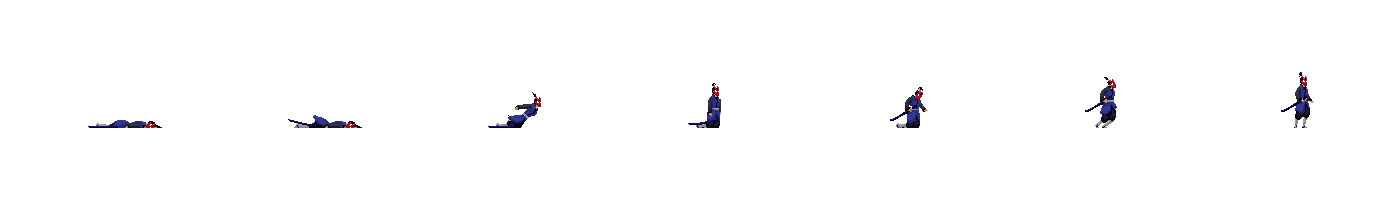
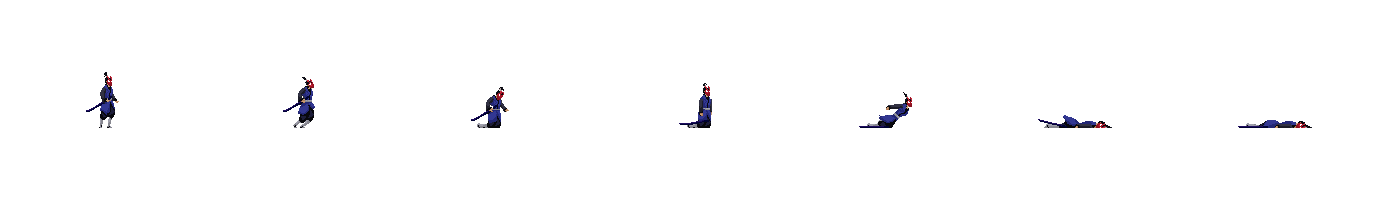
fixed death animation and mirror of players

diff --git a/js/classes.js b/js/classes.js
@@ -22,7 +22,7 @@ class Sprite {
                 0,
                 this.image.width / this.framesMax,
                 this.image.height,
-                -this.position.x - this.image.width / (this.framesMax - 2),
+                -this.position.x - this.image.width / (this.framesMax) * this.scale,
                 this.position.y,
                 (this.image.width / this.framesMax) * this.scale,
                 this.image.height * this.scale
@@ -91,8 +91,6 @@ class Fighter extends Sprite {
             sprites[sprite].image = new Image();
             sprites[sprite].image.src = this.sprites[sprite].imageSrc;
         }
-
-        console.log(this.sprites);
     }
 
     update() {
@@ -128,17 +126,8 @@ class Fighter extends Sprite {
         }, 1000);
     }
 
-    isGrounded() {
-        let posOffset = 450;
-        if (this.position.y + this.height >= canvas.height - posOffset) {
-            return true;
-        } else {
-            return false;
-        }
-    }
-
     jump() {
-        if (this.isGrounded() && !this.isDead) {
+        if (this.position.y + this.height >= canvas.height - 450 && !this.isDead) {
             this.velocity.y = -20;
         }
     }

diff --git a/index.js b/index.js
@@ -68,11 +68,16 @@ const player = new Fighter({
         attack: {
             imageSrc: "./assets/character/Mac/Attack1.png",
             framesMax: 6,
-            framesHold: 8,
+            framesHold: 6,
         },
         dead: {
             imageSrc: "./assets/character/Mac/death.png",
             framesMax: 6,
+            framesHold: 20,
+        },
+        hit: {
+            imageSrc: "./assets/character/Mac/TakeHit.png",
+            framesMax: 4,
             framesHold: 10,
         }
     }
@@ -122,6 +127,11 @@ const enemy = new Fighter({
         dead: {
             imageSrc: "./assets/character/Kenji/death.png",
             framesMax: 7,
+            framesHold: 20,
+        },
+        hit: {
+            imageSrc: "./assets/character/Kenji/takeHit.png",
+            framesMax: 3,
             framesHold: 10,
         }
     }

diff --git a/js/func.js b/js/func.js
@@ -98,6 +98,7 @@ function animate() {
 
     // ENEMY MOVEMENT
     enemy.velocity.x = 0;
+    enemy.switchSprites("runL")
     enemy.switchSprites("idle")
     if (!enemy.isDead) {
 
